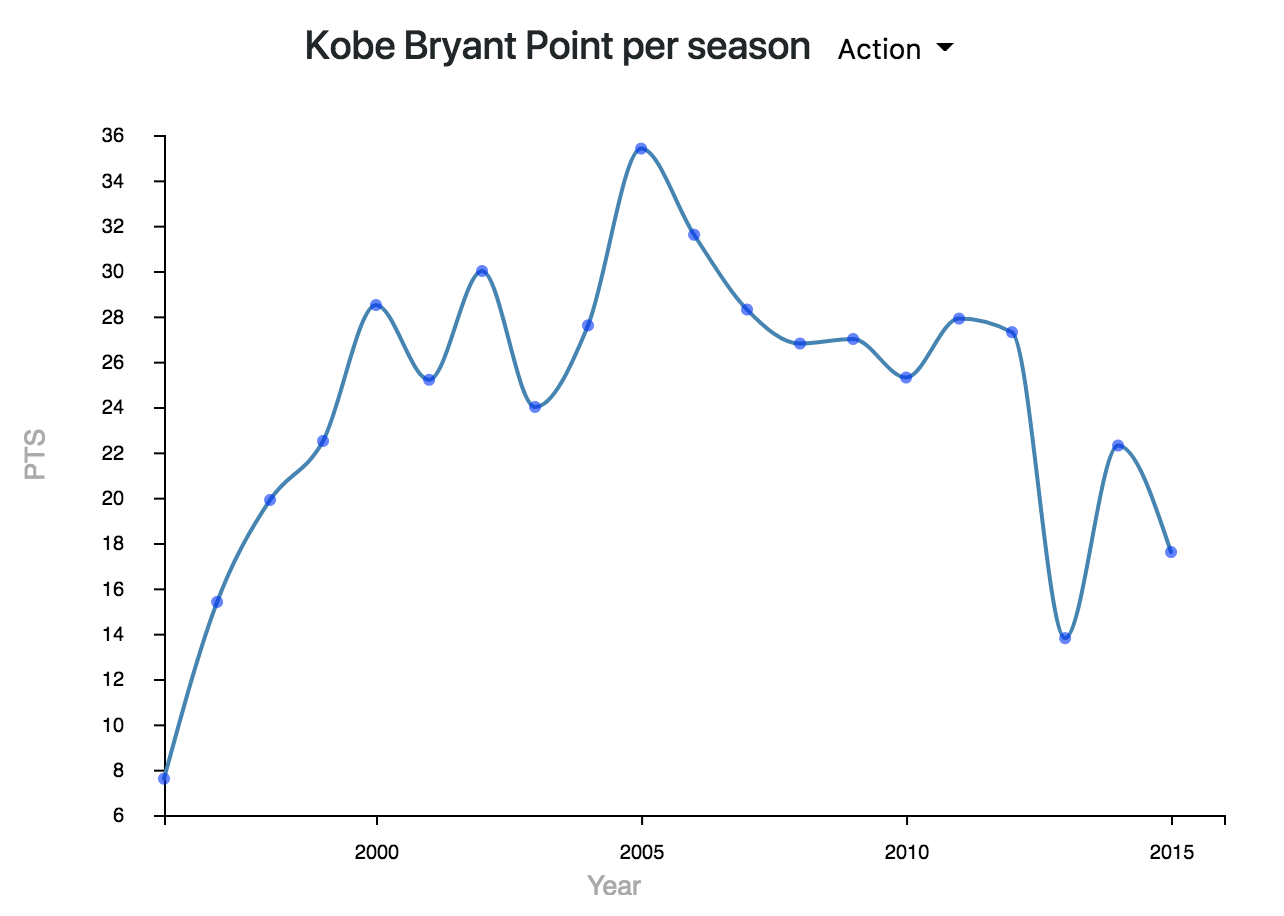
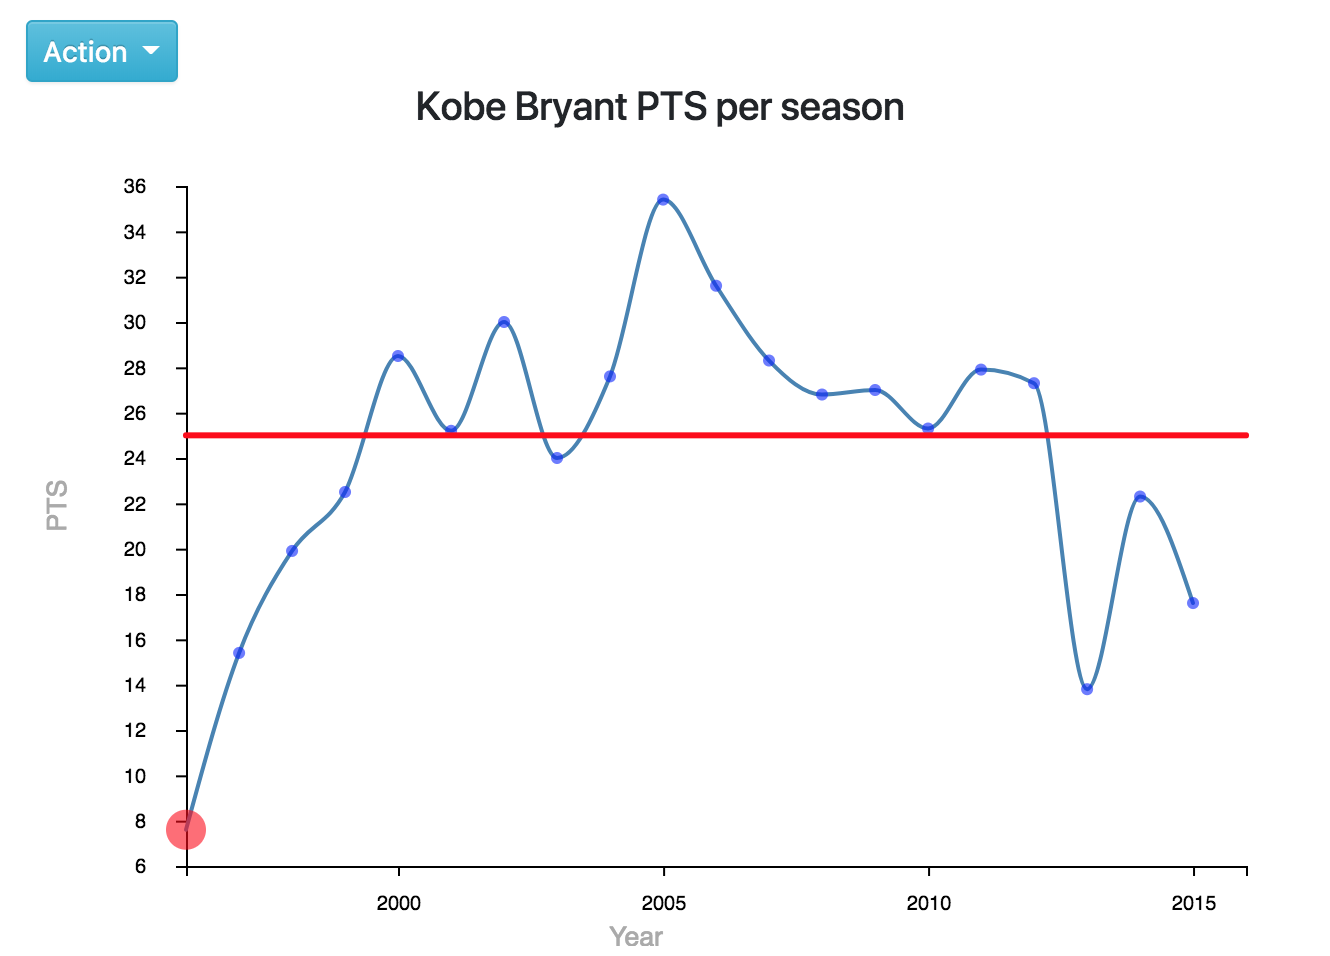
modify final picture; modify readme

diff --git a/README.md b/README.md
@@ -113,7 +113,7 @@ The first kind of line chart is the line chart that showing the career level sta
 
 ![beta](https://github.com/YouthBread/kobe-bryant-dataviz-project/blob/master/other_resource/line_chart_stat.png)
 
-In the future development for this kind of line chart, I'll add a drop down menu for userss to choose a different kind of stats that they want to see. As you can see that there is already a menu button displayed right beside the title of line chart.
+In the final verison, I've added a drop down menu for userss to choose a different kind of stats that they want to see. As you can see that there is already a menu button displayed right beside the title of line chart. And the corresponding circle standing for the selecting seaon will also be highlighted.
 
 The second kind of line chart is the line chart that showing the season level stats. The given screenshot is showing the entire season's points per game. Since Kobe is the showing guards, it will be more reasonable for us to pay more attention on the scoring ability per game of him.
 
@@ -129,7 +129,13 @@ Rather than making prediction on winning rate, I’ll do a ranking on the past p
 
 ![beta](https://github.com/YouthBread/kobe-bryant-dataviz-project/blob/master/other_resource/radar_chart.png)
 
-**the content inside the section is still being developed**
+Ctegory | Stats
+------------ | -------------
+Offense | Offensive Rebounds, Assists, Turnovers, Attempts and goals for Free Throws, Field Goals and 3-Point Field Goals
+Defense | Defensive Rebounds, Steals, Blocks
+Efficency | Minutes Played, Accuracy for Free Throws, Field Goals and 3-Point Field Goals
+
+I assign the weight to each stats catrory then comparing with the career median data which will result the rank for that season.
 
 # Reference
 
@@ -138,7 +144,7 @@ Rather than making prediction on winning rate, I’ll do a ranking on the past p
 - The size of the court is referencing [Basketball Court Dimensions & Measurements](http://www.courtdimensions.net/basketball-court/index.php)
 - The player season stats is referencing [Basketball reference](https://www.basketball-reference.com/players/b/bryanko01.html)
 - The debounce function is referencing [Stackoverflow Question](https://stackoverflow.com/questions/28773113/d3-event-is-null-inside-of-debounced-function)
-- The radar chart is referencing [[Nadieh Bremer](http://bl.ocks.org/nbremer)’](http://bl.ocks.org/nbremer/21746a9668ffdf6d8242)
+- The radar chart is referencing [Nadieh Bremer](http://bl.ocks.org/nbremer/21746a9668ffdf6d8242)
 
 
 
